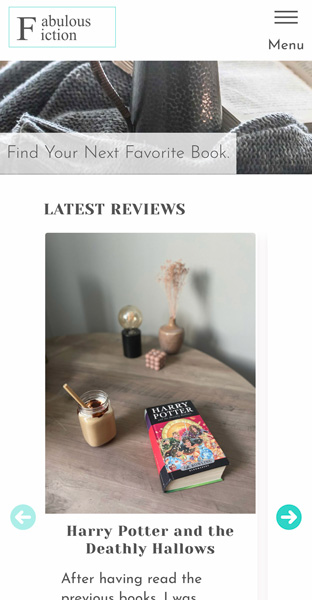
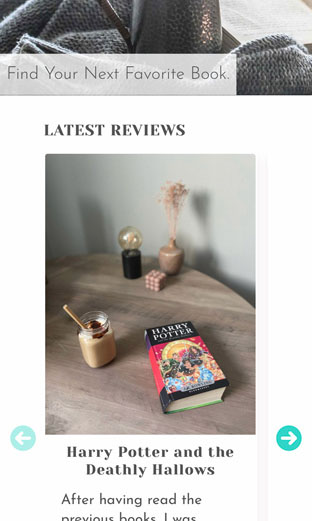
Structure of website, mobile and desktop, responsiveness

diff --git a/index.html b/index.html
@@ -33,36 +33,38 @@
           <img src="/images/profile-image.png" class="profile-img" alt="Image of Kristine" />
         </header>
         <section class="projects-section">
-          <h2>My projects</h2>
-          <div class="project-card">
-            <img src="/images/rainydays.jpg" class="project-img" alt="screenshot of Rainydays website on mobile" />
-            <h3>Rainydays</h3>
-            <p>
-              This is a description of the project. Maybe around five lines of text, I think that would suffice, but we will wait and see what it looks like
-              when the site is live.
-            </p>
-            <a href="#" class="cta cta-small">Live site</a>
-            <a href="#" class="cta cta-small">Github repo</a>
-          </div>
-          <div class="project-card">
-            <img src="/images/museum.jpg" class="project-img" alt="screenshot of Community Science Museum website on mobile" />
-            <h3>Community Science Museum</h3>
-            <p>
-              This is a description of the project. Maybe around five lines of text, I think that would suffice, but we will wait and see what it looks like
-              when the site is live.
-            </p>
-            <a href="#" class="cta cta-small">Live site</a>
-            <a href="#" class="cta cta-small">Github repo</a>
-          </div>
-          <div class="project-card">
-            <img src="/images/fabulous-fiction.jpg" class="project-img" alt="screenshot of Fabulous Fiction website on mobile" />
-            <h3>Book blog</h3>
-            <p>
-              This is a description of the project. Maybe around five lines of text, I think that would suffice, but we will wait and see what it looks like
-              when the site is live.
-            </p>
-            <a href="#" class="cta cta-small">Live site</a>
-            <a href="#" class="cta cta-small">Github repo</a>
+          <h2 class="h2-banner">My projects</h2>
+          <div class="project-cards-grid">
+            <div class="project-card">
+              <img src="/images/rainydays.jpg" class="project-img" alt="screenshot of Rainydays website on mobile" />
+              <h3>Rainydays</h3>
+              <p class="project-card-p">
+                This is a description of the project. Maybe around five lines of text, I think that would suffice, but we will wait and see what it looks like
+                when the site is live.
+              </p>
+              <a href="#" class="cta cta-small">Live site</a>
+              <a href="#" class="cta cta-small">Github repo</a>
+            </div>
+            <div class="project-card">
+              <img src="/images/museum.jpg" class="project-img" alt="screenshot of Community Science Museum website on mobile" />
+              <h3>Community Science Museum</h3>
+              <p class="project-card-p">
+                This is a description of the project. Maybe around five lines of text, I think that would suffice, but we will wait and see what it looks like
+                when the site is live.
+              </p>
+              <a href="#" class="cta cta-small">Live site</a>
+              <a href="#" class="cta cta-small">Github repo</a>
+            </div>
+            <div class="project-card">
+              <img src="/images/fabulous-fiction.jpg" class="project-img" alt="screenshot of Fabulous Fiction website on mobile" />
+              <h3>Book blog</h3>
+              <p class="project-card-p">
+                This is a description of the project. Maybe around five lines of text, I think that would suffice, but we will wait and see what it looks like
+                when the site is live.
+              </p>
+              <a href="#" class="cta cta-small">Live site</a>
+              <a href="#" class="cta cta-small">Github repo</a>
+            </div>
           </div>
         </section>
         <section class="skills-section">

diff --git a/styles/index.css b/styles/index.css
@@ -19,11 +19,13 @@ body {
 }
 
 img {
+  max-width: 100%;
   object-fit: cover;
 }
 
 .body-container {
-  max-width: 100%;
+  max-width: 1400px;
+  margin: 0 auto;
 }
 
 /*Typography*/
@@ -58,10 +60,24 @@ p {
   font-weight: 900;
 }
 
+.h2-banner {
+  display: inline-block;
+  background: var(--background-contrast-color);
+  color: var(--headings-contrast-color);
+  width: 60%;
+  padding: 10px 20px;
+  margin-left: -0.8rem;
+  border-radius: 0px 20px 20px 0px;
+}
+
 .logo {
   font-size: 25px;
   color: var(--background-contrast-color);
   padding: 0.6rem;
+}
+
+.project-card-p {
+  max-width: 310px;
 }
 
 /*Containers and sections*/
@@ -71,11 +87,11 @@ p {
   background: var(--background-contrast-color);
 }
 
-.welcome-header {
+.welcome-header,
+.skills-section {
   display: flex;
   flex-direction: column;
   padding-left: 1rem;
-  justify-content: space-between;
 }
 
 .welcome-text {
@@ -88,12 +104,13 @@ p {
 
 .project-card {
   background-color: #f9fafb;
+  max-width: 360px;
   margin-bottom: 2.5rem;
   padding: 1rem 0.6rem;
-}
-
-.project-img {
-  width: 100%;
+  display: flex;
+  flex-direction: column;
+  align-content: center;
+  justify-self: center;
 }
 
 .projects-section,
@@ -104,8 +121,4 @@ p {
 /*Images*/
 .profile-img {
   align-self: flex-end;
-}
-
-.skills-img img {
-  max-width: 100%;
 }

diff --git a/styles/media.css b/styles/media.css
@@ -1,6 +1,32 @@
-@media only screen and (min-width: 640px) {
-  .projects-section {
-    display: flex;
+@media only screen and (min-width: 481px) {
+  /*containers and cards*/
+  .project-cards-grid {
+    display: grid;
+    gap: 1.5rem;
+    grid-template-columns: 1fr 1fr;
+  }
+
+  .welcome-header {
+    flex-direction: row;
     justify-content: space-between;
+  }
+
+  .skills-section {
+    flex-direction: row;
+  }
+
+  .welcome-text {
+    max-width: 500px;
+  }
+
+  /*Typography*/
+}
+
+@media only screen and (min-width: 769px) {
+}
+
+@media only screen and (min-width: 1025px) {
+  .project-cards-grid {
+    grid-template-columns: 1fr 1fr 1fr;
   }
 }
